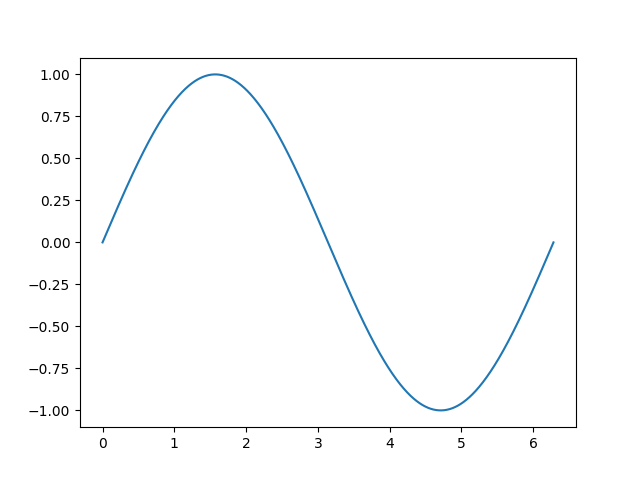
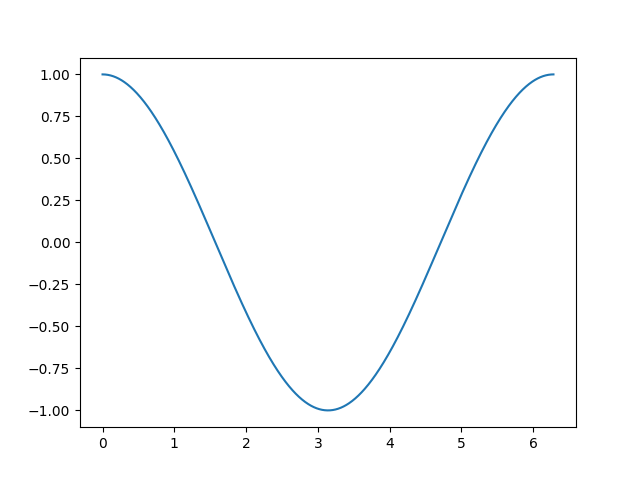
Correccion de la grafica

diff --git a/ejercicio.py b/ejercicio.py
@@ -2,5 +2,5 @@ import matplotlib.pyplot as plt
 import numpy as np
 t = np.linspace(0,2*np.pi,1000)
 plt.figure()
-plt.plot(t, np.sin(t))
+plt.plot(t, np.cos(t))
 plt.savefig('cos.png')
